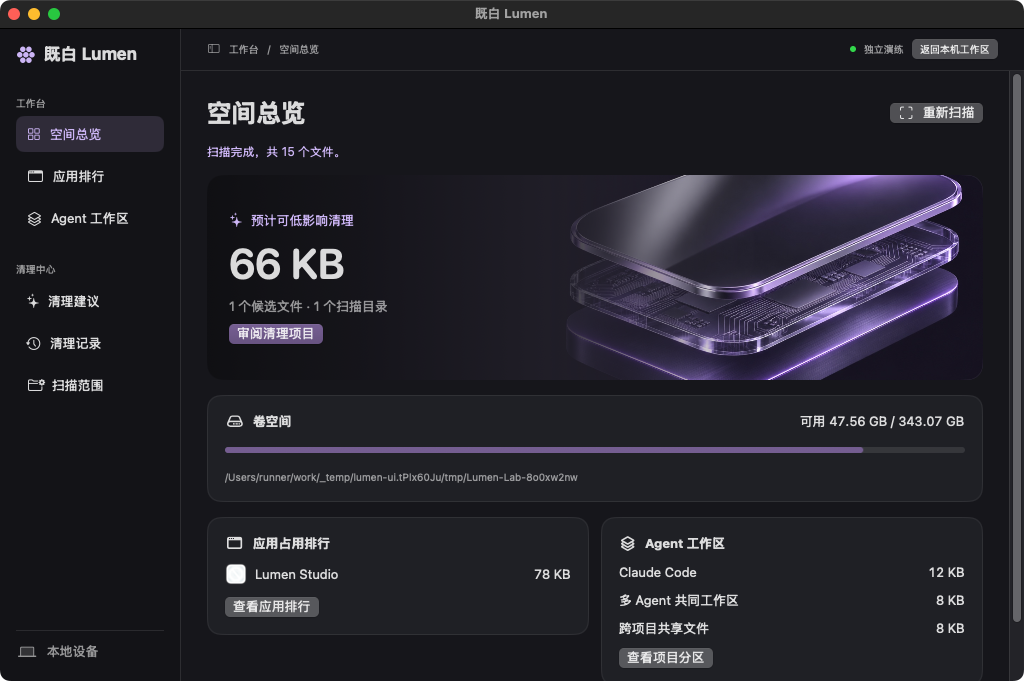
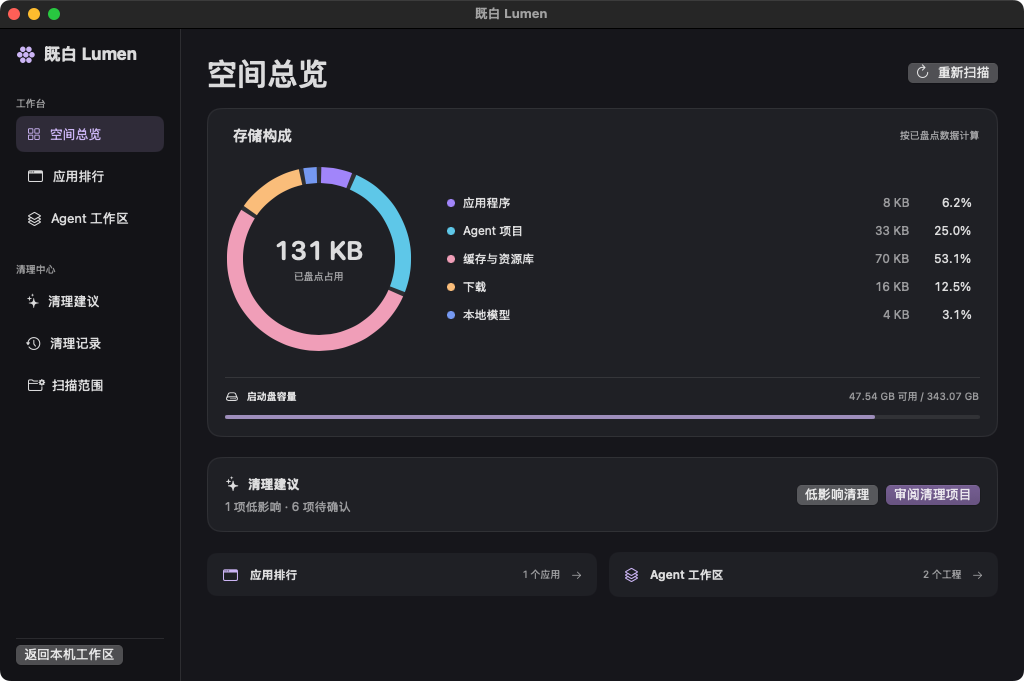
Refresh the preview download and native screenshot [skip ci]

diff --git a/docs/验证报告.md b/docs/验证报告.md
@@ -1,5 +1,9 @@
 # 隔离验证报告
 
+## 自动扫描与空间总览预览版
+
+预览版 `v0.1.0-dev.2` 在一次性 macOS runner 的合成用户目录内从空配置启动。应用自动盘点了测试应用、Codex 工程和下载文件，未建立手动授权目录。辅助功能验收核对了环形图所在的存储构成区域、应用行的 Finder 入口和自动发现的项目行，随后再次验证独立演练。61 项用例均在提供微软官方归档后通过。桌面截图来自该次托管运行。[验证日志](https://github.com/Moosphan/lumen/actions/runs/45367248553)
+
 验收对象是仓库的开发版和用源码打包的 Lumen.app。产品设计稿使用示例数据，当前测试实际调用 Swift 客户端和 Python 文件引擎。
 
 ## 环境与操作边界

diff --git a/README.md b/README.md
@@ -4,7 +4,7 @@
 
 *Agents build. Lumen tidies up.*
 
-面向 macOS 的本地磁盘清理器与 Agent 工作区管理工具。既白把应用占用、项目归属、共享素材和清理依据放在一起，帮你判断清掉一个文件会影响什么。[下载 Apple Silicon 开发预览版](https://github.com/Moosphan/lumen/releases/tag/v0.1.0-dev.1)
+面向 macOS 的本地磁盘清理器与 Agent 工作区管理工具。既白把应用占用、项目归属、共享素材和清理依据放在一起，帮你判断清掉一个文件会影响什么。[下载 Apple Silicon 开发预览版](https://github.com/Moosphan/lumen/releases/tag/v0.1.0-dev.2)
 
 ![既白原生 Mac 应用的空间总览，展示隔离演练的真实扫描结果](设计稿/Lumen-overview.png)
 
